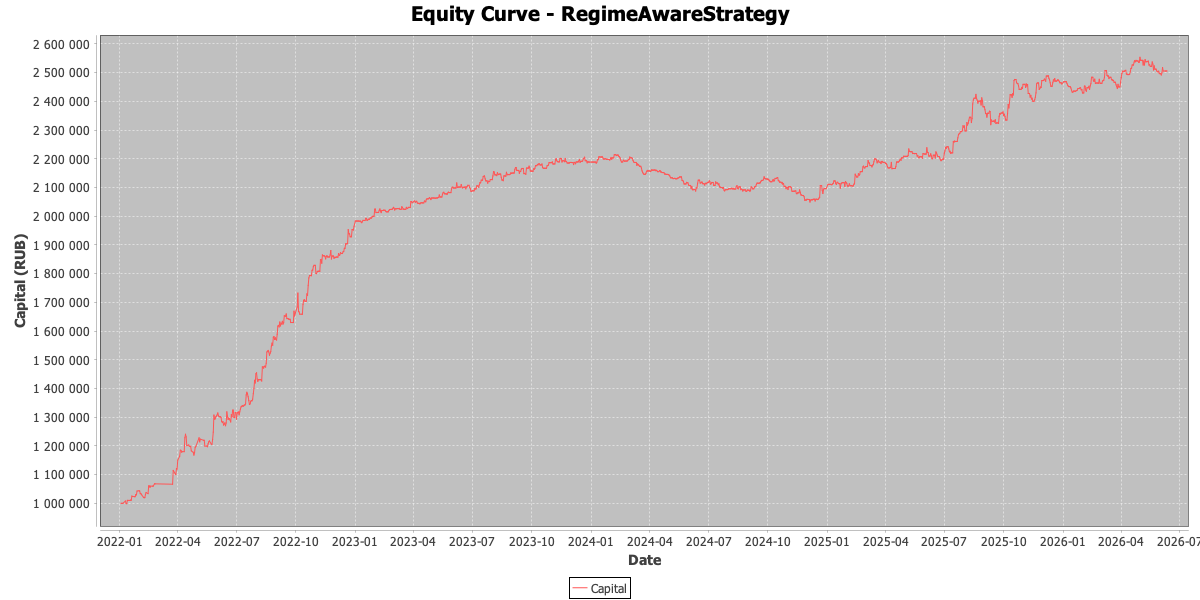
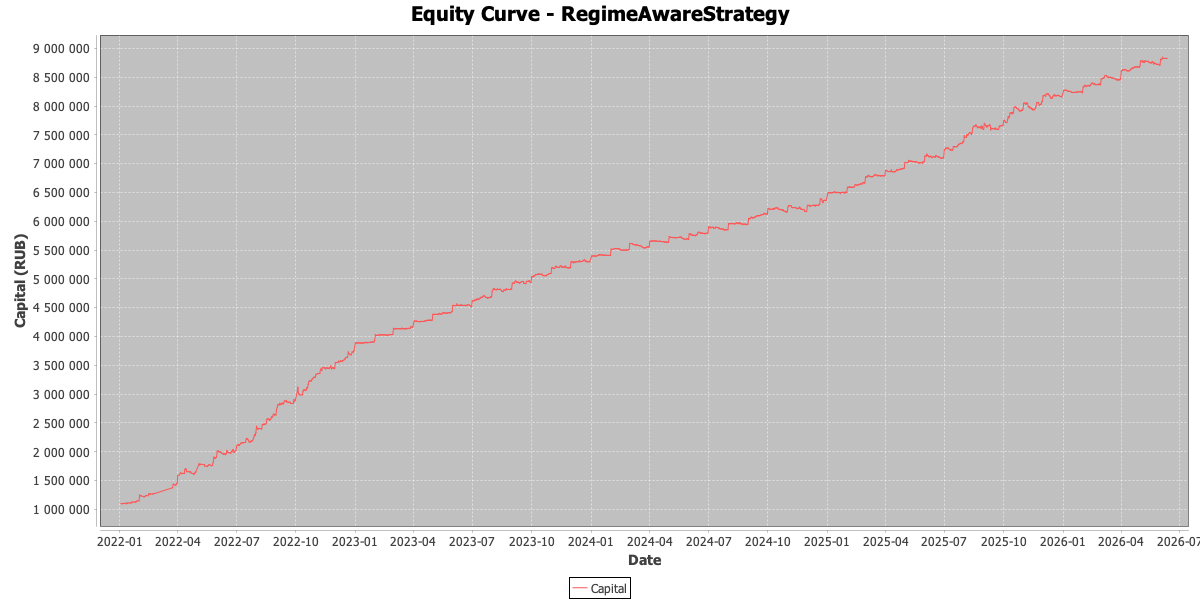
BacktestRunner

diff --git a/src/main/java/com/github/shk0da/GoldenDragon/test/BacktestRunner.java b/src/main/java/com/github/shk0da/GoldenDragon/test/BacktestRunner.java
@@ -427,11 +427,11 @@ public class BacktestRunner {
     private final double monthlyRebalanceAmount;
 
     public BacktestRunner() {
-        this("data", 1_000_000.0, 0.0005, 0.0);
+        this("data", 1_000_000.0, 0.0005, 100000.0);
     }
 
     public BacktestRunner(String dataDir, double initialBalance, double commission) {
-        this(dataDir, initialBalance, commission, 0.0);
+        this(dataDir, initialBalance, commission, 100000.0);
     }
 
     public BacktestRunner(String dataDir, double initialBalance, double commission, double monthlyRebalanceAmount) {
@@ -514,6 +514,9 @@ public class BacktestRunner {
         
         // Generate equity curve chart
         plotEquityCurveChart(strategyName, portfolioData);
+        
+        // Generate basic buy & hold chart (16% annual)
+        plotBasicBuyAndHoldChart(periods);
     }
 
     /**
@@ -597,6 +600,100 @@ public class BacktestRunner {
             System.out.println("Equity curve chart saved to: " + outputPath.toAbsolutePath());
         } catch (Exception e) {
             System.out.println("Failed to save equity curve chart: " + e.getMessage());
+        }
+    }
+
+    /**
+     * Generates and saves basic buy & hold strategy chart (16% annual return).
+     *
+     * @param periods list of backtest periods
+     */
+    private void plotBasicBuyAndHoldChart(List<PeriodDefinition> periods) {
+        TimeSeries basicSeries = new TimeSeries("Buy & Hold (16% annual)");
+        
+        // Monthly return rate: (1 + 0.16)^(1/12) - 1 ≈ 1.24%
+        double annualReturn = 0.16;
+        double monthlyReturn = Math.pow(1 + annualReturn, 1.0 / 12.0) - 1.0;
+        
+        double capital = initialBalance;
+        LocalDate currentDate = LocalDate.parse(periods.get(0).start);
+        LocalDate endDate = LocalDate.parse(periods.get(periods.size() - 1).endExclusive);
+        
+        int lastRebalanceMonth = -1;
+        int lastRebalanceYear = -1;
+        
+        // Add starting point
+        try {
+            Day startDay = new Day(java.util.Date.from(
+                currentDate.atStartOfDay(java.time.ZoneId.systemDefault()).toInstant()
+            ));
+            basicSeries.add(startDay, capital);
+        } catch (Exception e) {
+            // Skip
+        }
+        
+        // Add monthly points with rebalancing
+        while (!currentDate.isAfter(endDate)) {
+            currentDate = currentDate.plusMonths(1);
+            
+            // Monthly rebalance: add funds on the first day of each month
+            int currentMonth = currentDate.getMonthValue();
+            int currentYear = currentDate.getYear();
+            if (currentMonth != lastRebalanceMonth || currentYear != lastRebalanceYear) {
+                capital += monthlyRebalanceAmount;
+                lastRebalanceMonth = currentMonth;
+                lastRebalanceYear = currentYear;
+            }
+            
+            // Apply monthly return on the capital (including new deposits)
+            capital *= (1 + monthlyReturn);
+            
+            try {
+                Day day = new Day(java.util.Date.from(
+                    currentDate.atStartOfDay(java.time.ZoneId.systemDefault()).toInstant()
+                ));
+                basicSeries.add(day, capital);
+            } catch (Exception e) {
+                // Skip invalid dates
+            }
+        }
+        
+        if (basicSeries.getItemCount() == 0) {
+            System.out.println("No data available for basic chart generation");
+            return;
+        }
+        
+        TimeSeriesCollection dataset = new TimeSeriesCollection(basicSeries);
+        
+        JFreeChart chart = ChartFactory.createTimeSeriesChart(
+            "Buy & Hold Strategy (16% Annual + Monthly Rebalance)",
+            "Date",
+            "Capital (RUB)",
+            dataset,
+            true,
+            true,
+            false
+        );
+        
+        // Customize date axis to show months
+        XYPlot plot = (XYPlot) chart.getPlot();
+        DateAxis dateAxis = (DateAxis) plot.getDomainAxis();
+        dateAxis.setDateFormatOverride(new SimpleDateFormat("yyyy-MM"));
+        
+        try {
+            Path imagesDir = Paths.get("ml_strategy/images");
+            Files.createDirectories(imagesDir);
+            
+            String fileName = "Basic.png";
+            Path outputPath = imagesDir.resolve(fileName);
+            
+            try (FileOutputStream out = new FileOutputStream(outputPath.toFile())) {
+                ChartUtilities.writeChartAsPNG(out, chart, 1200, 600);
+            }
+            
+            System.out.println("Basic buy & hold chart saved to: " + outputPath.toAbsolutePath());
+        } catch (Exception e) {
+            System.out.println("Failed to save basic chart: " + e.getMessage());
         }
     }
 